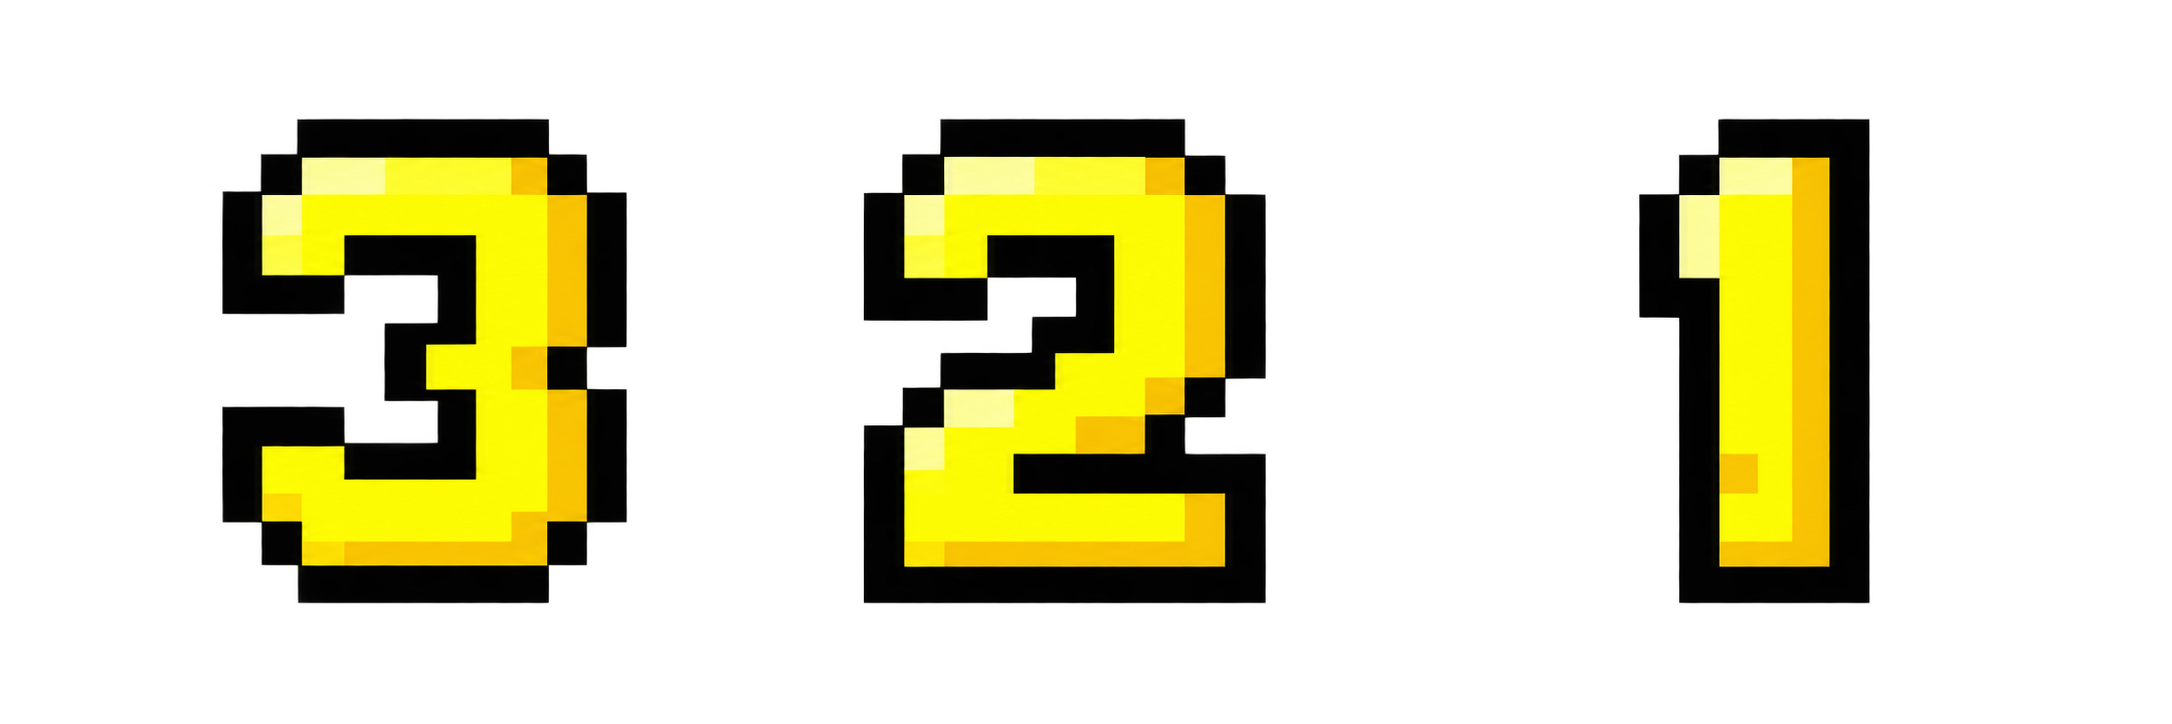
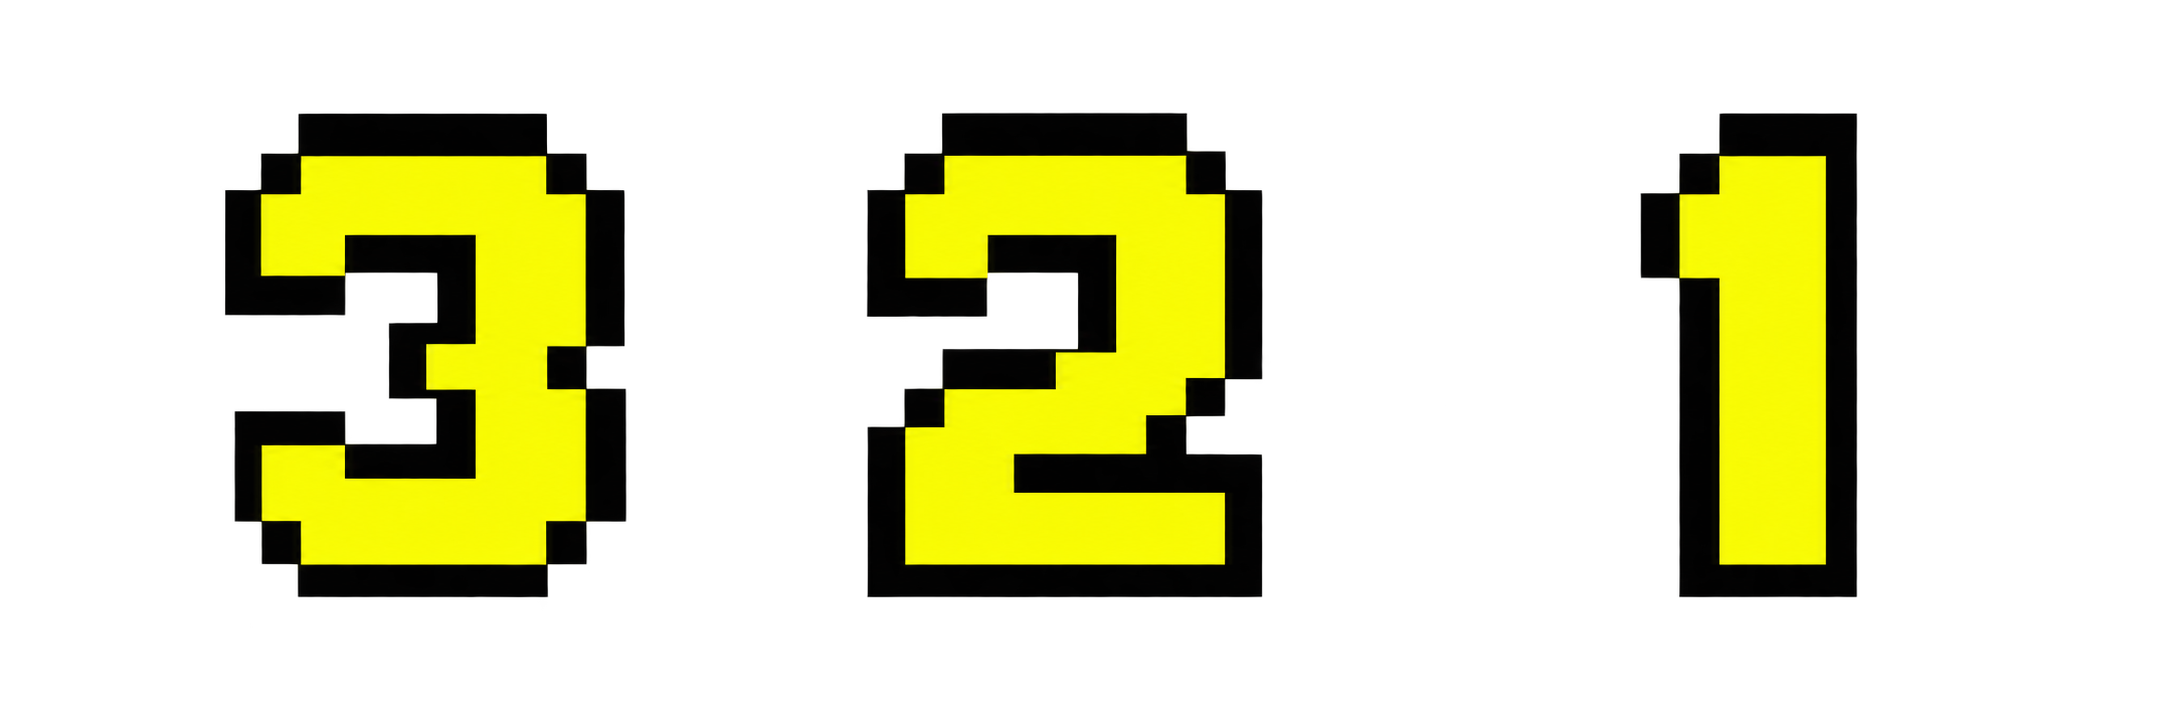
Refine countdown colors, add LIFE labeling, and remove the music focus box

diff --git a/src/gummy-game.ts b/src/gummy-game.ts
@@ -43,7 +43,7 @@ export function createGummyGame(host: HTMLElement, assets: PlayAssets) {
   window.addEventListener('glyf-sound-change', syncSound)
   host.innerHTML = `
     <section class="rain-game" aria-label="젤리와 인형 수집 게임">
-      <div class="rain-lives" role="status" aria-label="남은 목숨 3개">${Array.from({ length: 3 }, () => `<img src="${lifeHeartUrl}" alt="" aria-hidden="true">`).join('')}</div>
+      <div class="rain-lives" role="status" aria-label="남은 목숨 3개"><span class="life-label">LIFE</span>${Array.from({ length: 3 }, () => `<img src="${lifeHeartUrl}" alt="" aria-hidden="true">`).join('')}</div>
       <a class="play-button pink-button rain-home home-icon-link" href="#home" aria-label="HOME"><img src="${homeIconUrl}" alt=""></a>
       <canvas class="game-canvas" aria-label="방향키 또는 A와 D 키로 목표 아이템을 받으세요"></canvas>
       <div class="movement-hint game-movement-hint" aria-label="좌우 방향키로 이동"><span class="pixel-move-arrow left" aria-hidden="true"></span><span class="pixel-move-arrow" aria-hidden="true"></span></div>
@@ -125,7 +125,7 @@ export function createGummyGame(host: HTMLElement, assets: PlayAssets) {
     introStep = step
     message.classList.add('is-countdown')
     message.innerHTML = countdownImages[step]
-      ? `<img class="countdown-art ${step === 0 ? 'is-ready' : ''}" src="${countdownImages[step]}" alt="${countdownLabels[step]}">`
+      ? `<img class="countdown-art ${step === 0 ? 'is-ready' : step === 4 ? 'is-go' : ''}" src="${countdownImages[step]}" alt="${countdownLabels[step]}">`
       : ''
     message.hidden = false
   }
@@ -142,7 +142,8 @@ export function createGummyGame(host: HTMLElement, assets: PlayAssets) {
     const origin = canvas.getBoundingClientRect(), destination = livesEl.getBoundingClientRect()
     const size = parseFloat(getComputedStyle(hearts[0]!).width)
     const gap = parseFloat(getComputedStyle(livesEl).gap) || 0
-    const targetX = destination.left + slot * (size + gap) + size / 2
+    const labelWidth = livesEl.querySelector<HTMLElement>('.life-label')!.getBoundingClientRect().width
+    const targetX = destination.left + labelWidth + gap + slot * (size + gap) + size / 2
     const targetY = destination.top + destination.height / 2
     const image = document.createElement('img')
     image.src = lifeHeartUrl; image.alt = ''; image.className = 'flying-life-heart'

diff --git a/src/style.css b/src/style.css
@@ -536,3 +536,8 @@ html[data-view='game'] .brand-bar {
   right: max(16px, env(safe-area-inset-right));
   bottom: auto;
 }
+
+.countdown-art.is-go { height: min(118px, 17vw); }
+.life-label { color: #171717; font: 900 30px/1 monospace; margin-right: 4px; }
+.music-toggle:focus-visible { outline: none; outline-offset: 0; filter: drop-shadow(0 0 3px #e83796); }
+@media (max-width: 700px) { .life-label { font-size: 20px; margin-right: 2px; } .rain-lives { left: 6px; } .rain-lives img { width: 28px; height: 28px; } }
